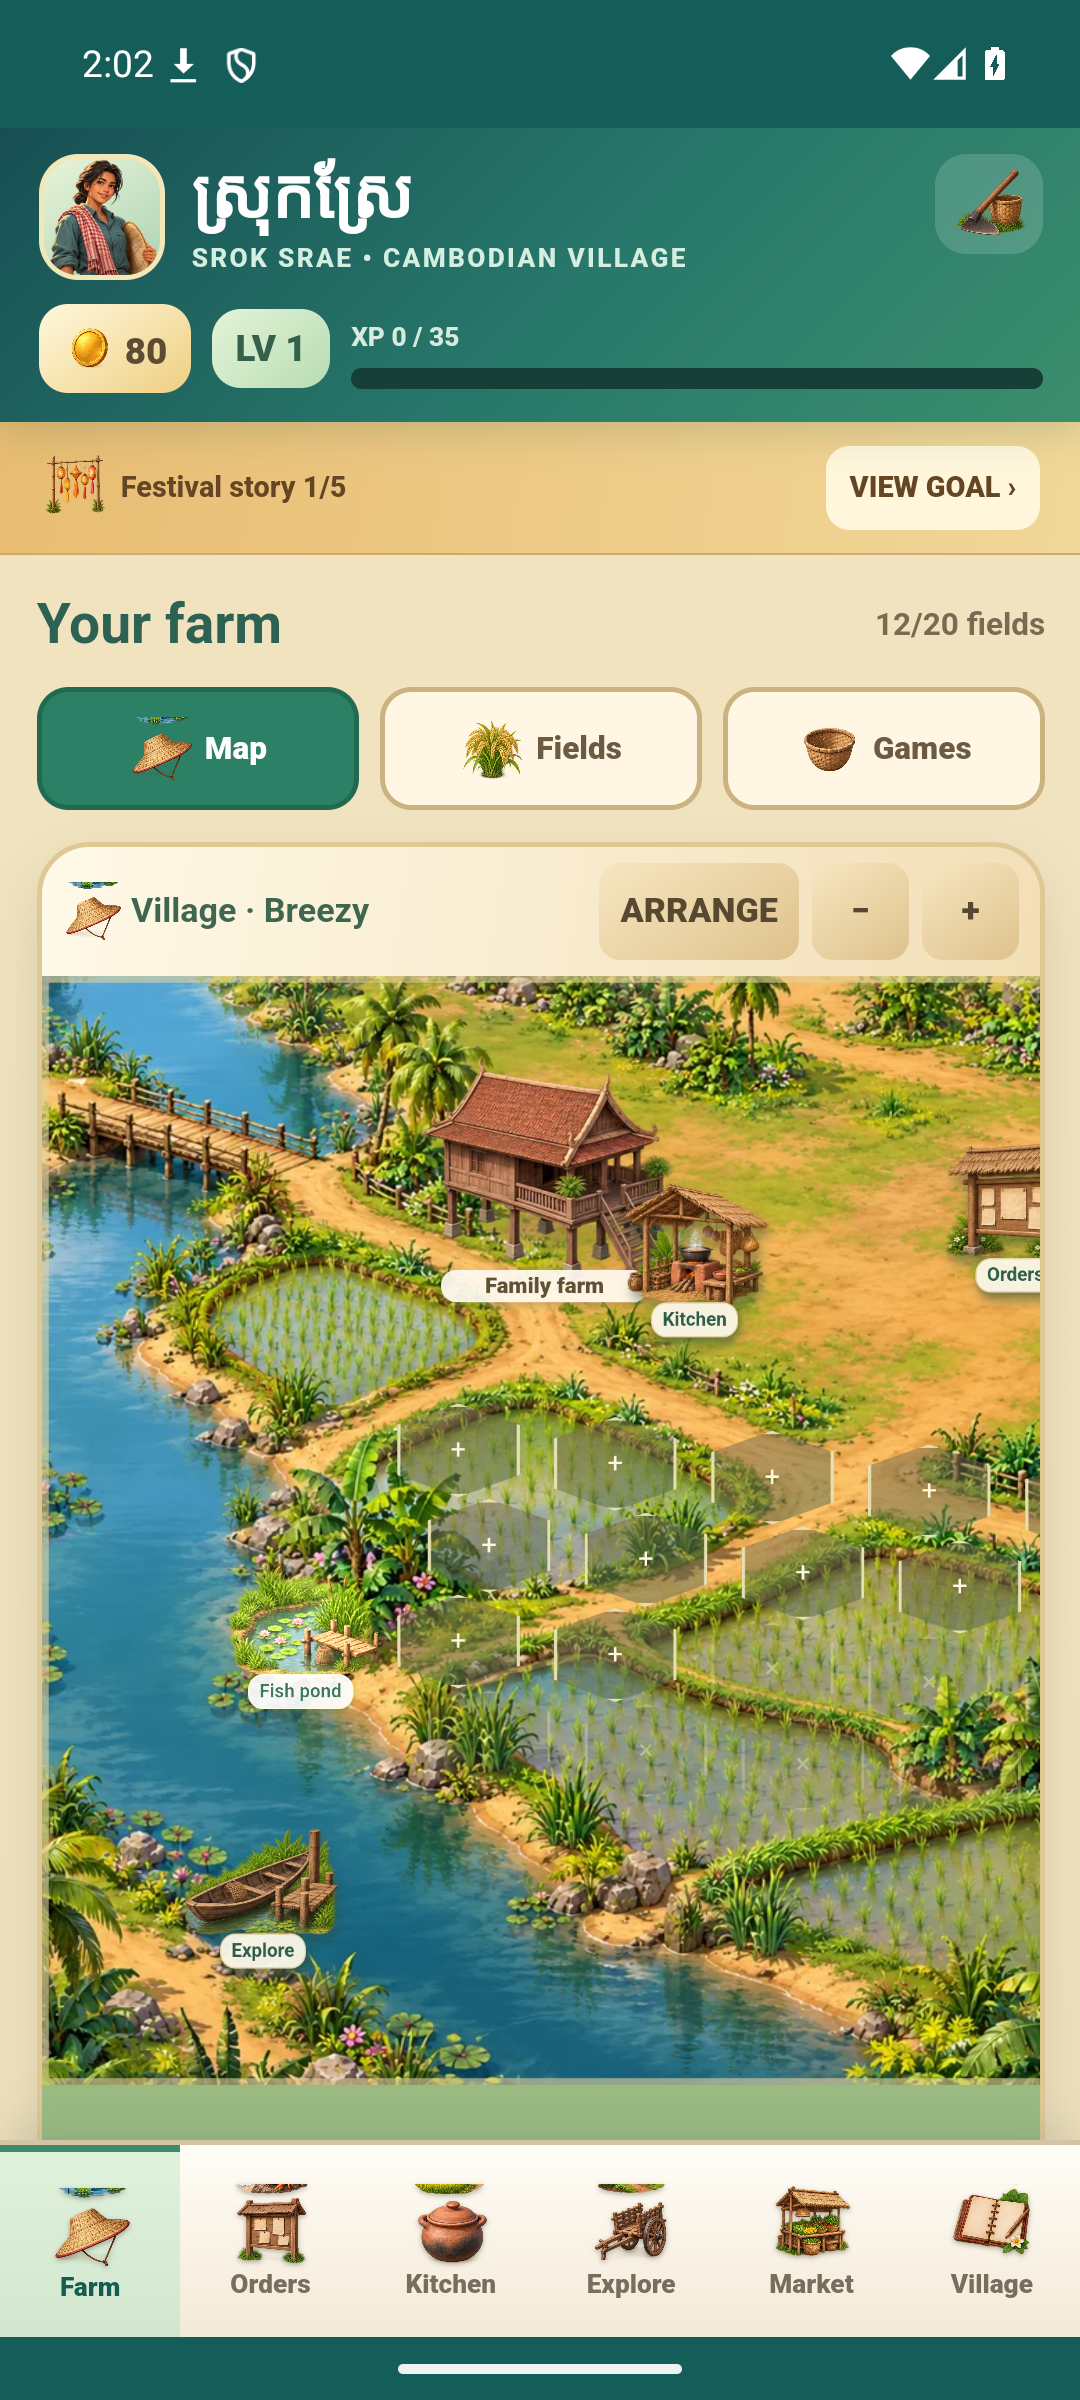
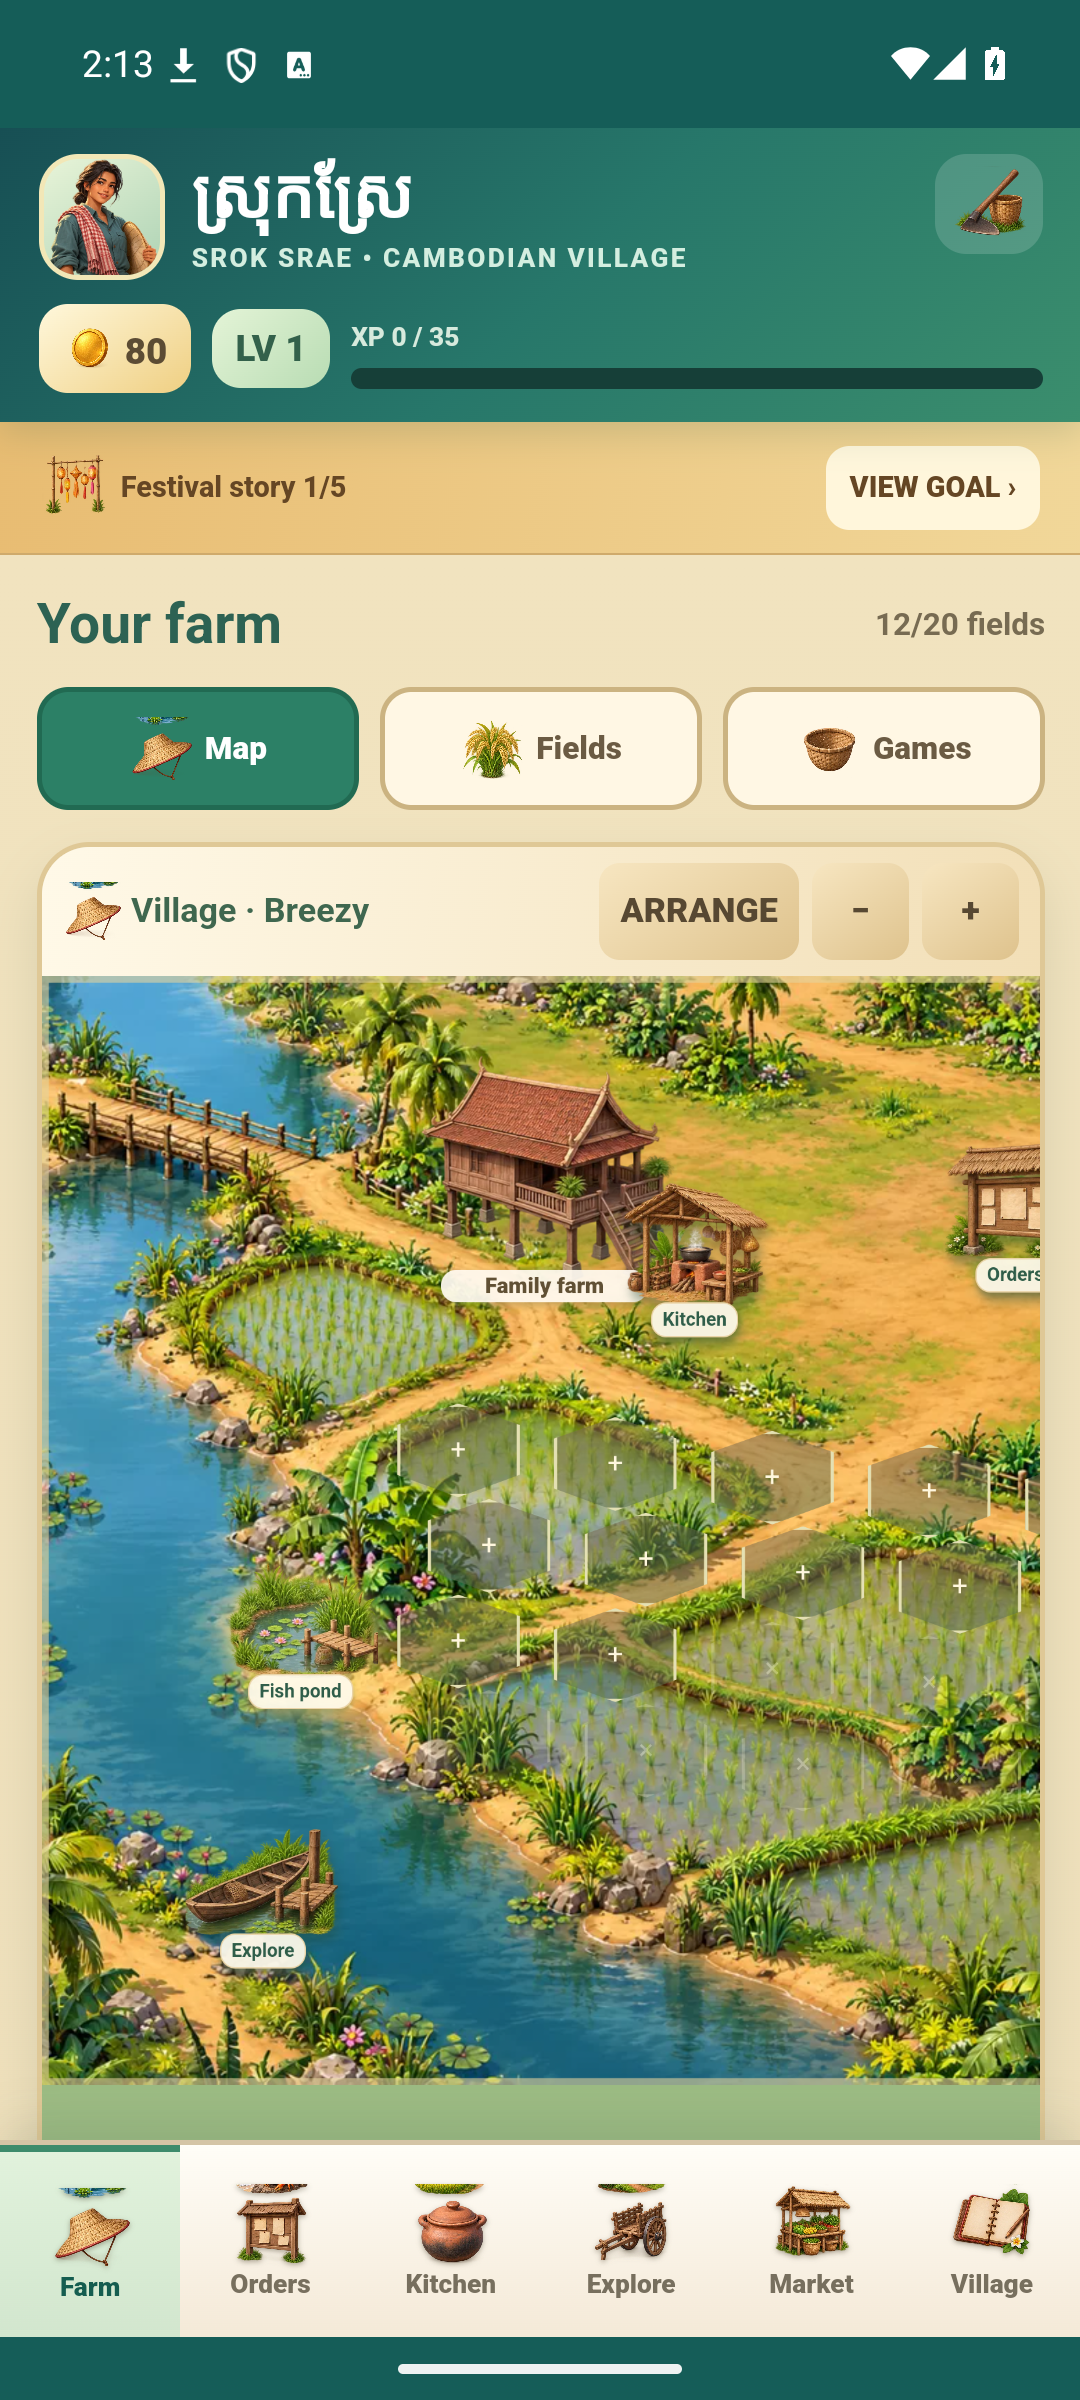
Document verified in-app Android upgrade

Changed region(s): [[0.1833, 0.6562, 0.3667, 0.7188], [0.275, 0.0, 0.3056, 0.0312], [0.0917, 0.0, 0.1222, 0.0312]]

diff --git a/README.md b/README.md
@@ -50,7 +50,7 @@ Open the folder in Android Studio and build the `app` module, or use JDK 17 and 
 node scripts/smoke-test.mjs
 ```
 
-The smoke test uses locally installed Google Chrome and checks the dashboard, profile, crop art and growth stages, quick farming, item earning fishing, animal care, all nine mini games, property purchases and benefits, batch sales, production queues, old-save migration and recovery, all three endings, the daily gift, travel, regional cooking, all four upgrades, workshop crafting, friendships, and land expansion. `node scripts/capture-v2.mjs` saves English and Khmer phone previews. A live in-app update download still needs device verification.
+The smoke test uses locally installed Google Chrome and checks the dashboard, profile, crop art and growth stages, quick farming, item earning fishing, animal care, all nine mini games, property purchases and benefits, batch sales, production queues, old-save migration and recovery, all three endings, the daily gift, travel, regional cooking, all four upgrades, workshop crafting, friendships, and land expansion. `node scripts/capture-v2.mjs` saves English and Khmer phone previews. The v1.9.0 in-app updater downloaded and installed v2.0.0 in an Android emulator; a physical device still needs verification.
 
 Regional themes were checked against Cambodia's Ministry of Tourism material on [Tonle Sap](https://tourismcambodia.org/public/provinces/search/detail/389/phnom-krom-tonle-sap-lake), [Kep seafood and Kampot pepper](https://www.tourismcambodia.org/public/index.php/official-activities/new-beginnings-a-gourmet-guide-to-cambodia), and [regional products including Kampong Speu palm sugar and Koh Trong pomelos](https://www.tourismcambodia.org/public/index.php/official-activities/nom-banh-chok-siem-reap-set-for-trademark-by-ministry). Game recipes use simplified ingredients.
 

diff --git a/docs/UPDATE_V2_0.md b/docs/UPDATE_V2_0.md
@@ -17,7 +17,7 @@ Core gameplay, including all nine mini-games, remains offline. Named orders and 
 
 ## Verification
 
-`node scripts/smoke-test.mjs` checks the farming and story regressions, crop image decoding and stage changes, profile, queues, old workshop-job migration, storage filters, and the ninth mini-game reward. `node scripts/capture-v2.mjs` creates phone-size English and Khmer previews in `qa/`. The release APK is built with Gradle and verified with Android's signing tool and an emulator install-over check.
+`node scripts/smoke-test.mjs` checks the farming and story regressions, crop image decoding and stage changes, profile, queues, old workshop-job migration, storage filters, and the ninth mini-game reward. `node scripts/capture-v2.mjs` creates phone-size English and Khmer previews in `qa/`. The release APK is built with Gradle and verified with Android's signing tool. On the emulator, v1.9.0 detected v2.0.0, downloaded and verified the APK, requested Android installation approval, installed over v1.9.0, and launched v2.0.0.
 
 ## Remaining work
 
